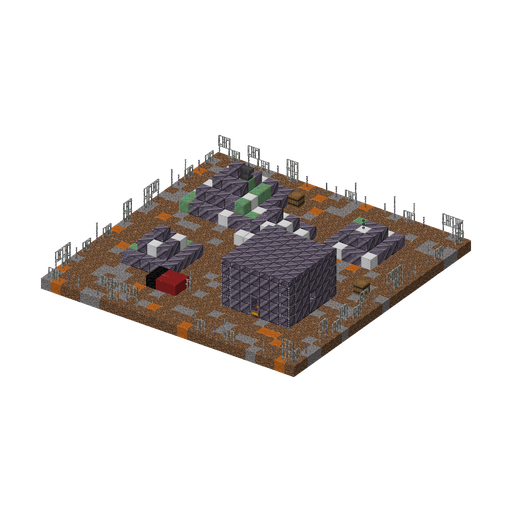
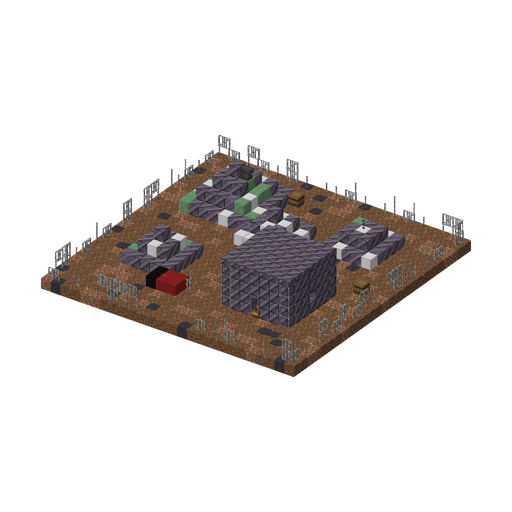
fix: Robo Junkyard second review follow-ups
The junkyard's floor is all #sproutsquad:plantable now (coarse dirt,
rooted dirt and patches of mud instead of gravel and red sand): plants
set up against the turrets used to dry out on a quarter of the yard.
Only the floor blocks of the template change; its picture is redrawn.

FEATURES lists the Engineer, Soldier and Robo-Zombie among the natural
spawns (at the Robo Junkyard, at night) instead of the raid-only ones.

structures_robo_junkyard checks the spawn rule both ways: no spawn on
the lit workshop floor, and a spawn in a dark stone cell walled in on
the yard, so a rule that never allows a spawn fails as well. It also
checks that the junkyard's turrets cannot call reinforcements. Both
structure tests place their templates turned like the test and read
positions through helper.absolutePos, so `/test run ... <rotation>`
works. The junkyard test relies on succeed() to clear its arena; the
gallery test takes the framework's test direction.

diff --git a/src/main/kotlin/dev/efureev/sproutsquad/structures/StructuresGameTests.kt b/src/main/kotlin/dev/efureev/sproutsquad/structures/StructuresGameTests.kt
@@ -14,6 +14,7 @@ import joshxviii.plantz.entity.blueprint_machines.ZombieTurret
 import joshxviii.plantz.entity.plant.Plant
 import joshxviii.plantz.entity.zombie.ZombieRobot
 import net.minecraft.core.BlockPos
+import net.minecraft.core.Direction
 import net.minecraft.core.registries.BuiltInRegistries
 import net.minecraft.core.registries.Registries
 import net.minecraft.gametest.framework.GameTestHelper
@@ -25,11 +26,11 @@ import net.minecraft.resources.Identifier
 import net.minecraft.resources.ResourceKey
 import net.minecraft.core.component.DataComponents
 import net.minecraft.tags.TagKey
-import net.minecraft.server.level.ServerLevel
 import net.minecraft.world.entity.Entity
 import net.minecraft.world.entity.EntitySpawnReason
 import net.minecraft.world.entity.EntityType
 import net.minecraft.world.entity.SpawnPlacementTypes
+import net.minecraft.world.entity.ai.attributes.Attributes
 import net.minecraft.world.entity.SpawnPlacements
 import net.minecraft.world.item.Items
 import net.minecraft.world.level.biome.Biome
@@ -40,6 +41,7 @@ import net.minecraft.world.level.block.Blocks
 import net.minecraft.world.level.block.entity.RandomizableContainerBlockEntity
 import net.minecraft.world.level.levelgen.structure.pools.StructurePoolElement
 import net.minecraft.world.level.levelgen.structure.templatesystem.StructurePlaceSettings
+import net.minecraft.world.level.levelgen.structure.templatesystem.StructureTemplate
 import net.minecraft.world.level.storage.loot.LootParams
 import net.minecraft.world.level.storage.loot.LootTable
 import net.minecraft.world.level.storage.loot.parameters.LootContextParamSets
@@ -130,18 +132,16 @@ object StructuresGameTests {
         val level = helper.level
         val problems = mutableListOf<String>()
         // the test's arena is the oak shack (SquadGameTests): its area is loaded; every variant is placed over it
-        val origin = helper.absolutePos(BlockPos.ZERO)
+        val box = helper.bounds
         for (wood in GARDEN_SHACK_VARIANTS) {
             val template = level.structureTemplateManager.get(id("garden_shack/$wood")).orElse(null)
             if (template == null) {
                 problems += "no template garden_shack/$wood"
                 continue
             }
-            val box = AABB(Vec3.atLowerCornerOf(origin), Vec3.atLowerCornerOf(origin.offset(template.size)))
             level.getEntitiesOfClass(Plant::class.java, box).forEach { it.discard() }
-            val settings = StructurePlaceSettings().setFinalizeEntities(true)
-            template.placeInWorld(level, origin, origin, settings, level.random, Block.UPDATE_CLIENTS)
-            problems += shackProblems(helper, wood, origin, box)
+            placeOverArena(helper, template)
+            problems += shackProblems(helper, wood, box)
         }
         problems += registrationProblems(helper, "garden_shack", Biomes.PLAINS, tradeLevel = 1)
         if (problems.isNotEmpty()) helper.fail(problems.joinToString("; "))
@@ -177,13 +177,26 @@ object StructuresGameTests {
     private val JUNKYARD_CHEST = BlockPos(20, 1, 15)
     private val JUNKYARD_BARRELS = listOf(BlockPos(20, 1, 17), BlockPos(10, 1, 3), BlockPos(23, 1, 12))
     private val JUNKYARD_ELECTRO_TURRET = BlockPos(17, 1, 22)
-    /** On the floor of the workshop, four blocks below the lantern. */
+    /** On the workshop floor, three blocks below the lantern (18, 4, 17) and one block west of it. */
     private val JUNKYARD_WORKSHOP_FLOOR = BlockPos(17, 1, 17)
+    /** Free yard floor, where the test walls in a dark cell. */
+    private val JUNKYARD_DARK_CELL = BlockPos(3, 1, 22)
     private const val LOOT_ROLLS = 50
 
-    /** The loot table path of the container at [pos] relative to [origin], or null. */
-    private fun lootTable(level: ServerLevel, origin: BlockPos, pos: BlockPos): String? =
-        (level.getBlockEntity(origin.offset(pos)) as? RandomizableContainerBlockEntity)?.lootTable?.identifier()?.path
+    /**
+     * Places [template] over the test's arena the way the world generation places it (its entities
+     * set up), turned like the arena (`/test run ... <rotation>`): positions relative to the template
+     * are then [GameTestHelper.absolutePos] of the same positions.
+     */
+    private fun placeOverArena(helper: GameTestHelper, template: StructureTemplate) {
+        val origin = helper.absolutePos(BlockPos.ZERO)
+        val settings = StructurePlaceSettings().setRotation(helper.testRotation).setFinalizeEntities(true)
+        template.placeInWorld(helper.level, origin, origin, settings, helper.level.random, Block.UPDATE_CLIENTS)
+    }
+
+    /** The loot table path of the container at [pos] relative to the test, or null. */
+    private fun lootTable(helper: GameTestHelper, pos: BlockPos): String? =
+        (helper.level.getBlockEntity(helper.absolutePos(pos)) as? RandomizableContainerBlockEntity)?.lootTable?.identifier()?.path
 
     /**
      * The Robo Junkyard: placed as the world generation places it, it has its loot tables and two
@@ -192,23 +205,22 @@ object StructuresGameTests {
      * are registered. Then a plant is put next to the electro turret by the door, and the turret
      * must take it as its target: the turrets of the template are awake. Last, the zombies it brings
      * at night have spawn rules on the ground, and those rules keep them out of the workshop, which
-     * its lantern lights.
+     * its lantern lights, but let them spawn in a dark cell walled in on the yard.
      */
     fun roboJunkyard(helper: GameTestHelper) {
         val level = helper.level
         val problems = mutableListOf<String>()
         // the test's arena is the junkyard itself (SquadGameTests): its area is loaded
-        val origin = helper.absolutePos(BlockPos.ZERO)
         val template = level.structureTemplateManager.get(id("robo_junkyard/yard")).orElse(null)
             ?: return helper.fail("no template robo_junkyard/yard")
-        val box = AABB(Vec3.atLowerCornerOf(origin), Vec3.atLowerCornerOf(origin.offset(template.size)))
+        val box = helper.bounds
         level.getEntitiesOfClass(ZombieRobot::class.java, box).forEach { it.discard() }
-        template.placeInWorld(level, origin, origin, StructurePlaceSettings().setFinalizeEntities(true), level.random, Block.UPDATE_CLIENTS)
+        placeOverArena(helper, template)
 
-        val chestLoot = lootTable(level, origin, JUNKYARD_CHEST)
+        val chestLoot = lootTable(helper, JUNKYARD_CHEST)
         if (chestLoot != "chests/robo_junkyard/workshop") problems += "the workshop chest has loot $chestLoot"
         for (pos in JUNKYARD_BARRELS) {
-            val barrelLoot = lootTable(level, origin, pos)
+            val barrelLoot = lootTable(helper, pos)
             if (barrelLoot != "chests/robo_junkyard/scrap") problems += "the barrel at ${pos.toShortString()} has loot $barrelLoot"
         }
 
@@ -218,35 +230,46 @@ object StructuresGameTests {
         val guards = turrets + electroTurrets
         if (guards.any { PlayerMachines.isPlayerMachine(it) }) problems += "a turret of the junkyard is a player's machine"
         if (guards.any { !it.isPersistenceRequired }) problems += "a turret of the junkyard may despawn"
+        if (guards.any { it.getAttributeValue(Attributes.SPAWN_REINFORCEMENTS_CHANCE) > 0.0 }) problems += "a turret of the junkyard may call reinforcements"
 
-        problems += junkyardLootProblems(helper, origin)
+        problems += junkyardLootProblems(helper, helper.absolutePos(BlockPos.ZERO))
         problems += registrationProblems(helper, "robo_junkyard", Biomes.BADLANDS, tradeLevel = 3)
         if (problems.isNotEmpty()) return helper.fail(problems.joinToString("; "))
 
         val electro = electroTurrets.single()
         val plant = helper.spawn(PazEntities.WALL_NUT, JUNKYARD_ELECTRO_TURRET.south(2))
-        val floor = origin.offset(JUNKYARD_WORKSHOP_FLOOR)
+        val floor = helper.absolutePos(JUNKYARD_WORKSHOP_FLOOR)
+        // a closed stone cell: neither sky nor block light reaches it
+        val cell = helper.absolutePos(JUNKYARD_DARK_CELL)
+        helper.setBlock(JUNKYARD_DARK_CELL.below(), Blocks.STONE)
+        helper.setBlock(JUNKYARD_DARK_CELL.above(2), Blocks.STONE)
+        for (y in 0..1) {
+            helper.setBlock(JUNKYARD_DARK_CELL.above(y), Blocks.AIR)
+            for (side in Direction.Plane.HORIZONTAL) helper.setBlock(JUNKYARD_DARK_CELL.above(y).relative(side), Blocks.STONE)
+        }
         helper.startSequence()
             .thenWaitUntil {
                 helper.assertTrue(level.isPositionEntityTicking(electro.blockPosition()), "the junkyard does not tick entities yet")
                 helper.assertTrue(electro.target == plant, "the electro turret targets ${electro.target?.type?.toShortString()} instead of the plant")
             }
-            // light is computed after the template is placed
-            .thenWaitUntil { helper.assertTrue(level.getBrightness(LightLayer.BLOCK, floor) > 0, "the workshop is not lit yet") }
+            // light is computed after the blocks are placed
+            .thenWaitUntil {
+                helper.assertTrue(level.getBrightness(LightLayer.BLOCK, floor) > 0, "the workshop is not lit yet")
+                helper.assertTrue(level.getBrightness(LightLayer.SKY, cell) == 0 && level.getBrightness(LightLayer.BLOCK, cell) == 0, "the cell is not dark yet")
+            }
             .thenExecute {
-                // the rule itself, not only its placement: a rule that let them spawn anywhere would pass the first check
+                // the rule itself, not only its placement: a rule that let them spawn anywhere, or nowhere, fails here
                 fun <T : Entity> rules(type: EntityType<T>): String? = when {
                     SpawnPlacements.getPlacementType(type) != SpawnPlacementTypes.ON_GROUND -> "${type.toShortString()} has no spawn rules on the ground"
                     SpawnPlacements.checkSpawnRules(type, level, EntitySpawnReason.NATURAL, floor, level.random) -> "${type.toShortString()} may spawn in the lit workshop"
+                    !SpawnPlacements.isSpawnPositionOk(type, level, cell) || !SpawnPlacements.checkSpawnRules(type, level, EntitySpawnReason.NATURAL, cell, level.random) ->
+                        "${type.toShortString()} may not spawn in the dark"
                     else -> null
                 }
                 val wrong = listOfNotNull(rules(PazEntities.ENGINEER_ZOMBIE), rules(PazEntities.SOLDIER_ZOMBIE), rules(PazEntities.ROBO_ZOMBIE))
                 helper.assertTrue(wrong.isEmpty(), wrong.joinToString("; "))
             }
-            .thenExecute {
-                plant.discard()
-                level.getEntitiesOfClass(ZombieRobot::class.java, box).forEach { it.discard() }
-            }
+            // succeed() clears the arena's entities: the turrets and the plant
             .thenSucceed()
     }
 
@@ -269,18 +292,18 @@ object StructuresGameTests {
         return problems
     }
 
-    private fun shackProblems(helper: GameTestHelper, wood: String, origin: BlockPos, box: AABB): List<String> {
+    private fun shackProblems(helper: GameTestHelper, wood: String, box: AABB): List<String> {
         val level = helper.level
         val problems = mutableListOf<String>()
-        val shedLoot = lootTable(level, origin, BlockPos(3, 1, 3))
+        val shedLoot = lootTable(helper, BlockPos(3, 1, 3))
         if (shedLoot != "chests/garden_shack/shed") problems += "$wood: the shed chest has loot $shedLoot"
         for (y in 1..2) {
-            val barrelLoot = lootTable(level, origin, BlockPos(7, y, 5))
+            val barrelLoot = lootTable(helper, BlockPos(7, y, 5))
             if (barrelLoot != "chests/garden_shack/barrel") problems += "$wood: barrel $y has loot $barrelLoot"
         }
-        if (!level.getBlockState(origin.offset(10, 0, 8)).`is`(Blocks.WATER)) problems += "$wood: no water between the beds"
+        if (!level.getBlockState(helper.absolutePos(BlockPos(10, 0, 8))).`is`(Blocks.WATER)) problems += "$wood: no water between the beds"
 
-        val mailboxPos = origin.offset(12, 1, 18)
+        val mailboxPos = helper.absolutePos(BlockPos(12, 1, 18))
         val mailbox = level.getBlockEntity(mailboxPos) as? MailboxBlockEntity
         val letter = mailbox?.let { box -> (0 until box.containerSize).map { box.getItem(it) }.firstOrNull { !it.isEmpty } }
         val name = (letter?.get(DataComponents.CUSTOM_NAME)?.contents as? TranslatableContents)?.key

diff --git a/src/main/kotlin/dev/efureev/sproutsquad/debug/GalleryGameTest.kt b/src/main/kotlin/dev/efureev/sproutsquad/debug/GalleryGameTest.kt
@@ -2,7 +2,6 @@ package dev.efureev.sproutsquad.debug
 
 import joshxviii.plantz.PazMain
 import net.minecraft.core.BlockPos
-import net.minecraft.core.Direction
 import net.minecraft.gametest.framework.GameTestHelper
 import net.minecraft.world.phys.Vec2
 import net.minecraft.world.phys.Vec3
@@ -33,7 +32,7 @@ object GalleryGameTest {
         val level = helper.level
         val pos = helper.absolutePos(COMMAND_POS)
         // "south in the template" turns with the test (`/test run ... <rotation>`), like the area
-        val facing = helper.testRotation.rotate(Direction.SOUTH)
+        val facing = helper.testDirection
         val source = level.server.createCommandSourceStack()
             .withLevel(level)
             .withPosition(Vec3.atBottomCenterOf(pos))

diff --git a/tools/docs/sketch_structures.py b/tools/docs/sketch_structures.py
@@ -425,9 +425,10 @@ def crypt():
 def junkyard():
     s = Scene(7)
     s.fill(0, -1, 0, 25, -1, 25, "dirt")
+    # the whole floor is #sproutsquad:plantable, so plants set against the turrets do not dry out
     s.fill(0, 0, 0, 25, 0, 25, "coarse_dirt")
-    s.fill(0, 0, 0, 25, 0, 25, "gravel", chance=0.2)
-    s.fill(0, 0, 0, 25, 0, 25, "red_sand", chance=0.06)
+    s.fill(0, 0, 0, 25, 0, 25, "rooted_dirt", chance=0.2)
+    s.fill(0, 0, 0, 25, 0, 25, "mud", chance=0.06)
     for i in range(0, 26):
         for x, z in ((i, 0), (i, 25), (0, i), (25, i)):
             if s.rng.random() < 0.85 and not (z == 25 and 10 <= x <= 14):

diff --git a/docs/ru/FEATURES.md b/docs/ru/FEATURES.md
@@ -199,15 +199,15 @@ Sprout Squad — мод для Minecraft 26.3 на NeoForge, который пр
 | <img src="../images/characters/zombie_yeti.png" alt="" width="112"> | [Зомби-Йети](characters/zombie_yeti.md) | Снежные и холодные биомы, ледяные вершины | Кидается рыхлым снегом («Прохлада») |
 | <img src="../images/characters/zombat.png" alt="" width="112"> | [Зомбимышь](characters/zombat.md) | Кладбище, даже днём | Летает, лечится, когда ранит моба |
 | <img src="../images/characters/zombie_goat.png" alt="" width="112"> | [Зомби-Козёл](characters/zombie_goat.md) | Заснеженные склоны, вершины, рощи, ветреные холмы — ночью | В 40 % случаев на нём едет Чертёнок (Sprout Squad) |
+| <img src="../images/characters/engineer_zombie.png" alt="" width="112"> | [Зомби-Инженер](characters/engineer_zombie.md) | [Свалка роботов](STRUCTURES.md#свалка-роботов) — ночью (Sprout Squad) | Избегает игроков и растений и строит враждебные машины |
+| <img src="../images/characters/soldier_zombie.png" alt="" width="112"> | [Зомби-Солдат](characters/soldier_zombie.md) | [Свалка роботов](STRUCTURES.md#свалка-роботов) — ночью (Sprout Squad) | Стреляет из Пейнтбольного маркера |
+| <img src="../images/characters/robo_zombie.png" alt="" width="112"> | [Робо-Зомби](characters/robo_zombie.md) | [Свалка роботов](STRUCTURES.md#свалка-роботов) — ночью (Sprout Squad) | Трансформируется, стреляет ракетами |
 
 Только в рейдах (или из яиц призыва):
 
 | | Зомби | Особенности |
 |---|---|---|
 | <img src="../images/characters/backup_dancer.png" alt="" width="112"> | [Подтанцовщик](characters/backup_dancer.md) | Его призывает Зомби-Танцор |
-| <img src="../images/characters/engineer_zombie.png" alt="" width="112"> | [Зомби-Инженер](characters/engineer_zombie.md) | Избегает игроков и растений и строит враждебные машины |
-| <img src="../images/characters/soldier_zombie.png" alt="" width="112"> | [Зомби-Солдат](characters/soldier_zombie.md) | Стреляет из Пейнтбольного маркера |
-| <img src="../images/characters/robo_zombie.png" alt="" width="112"> | [Робо-Зомби](characters/robo_zombie.md) | Трансформируется, стреляет ракетами |
 | <img src="../images/characters/pirate_captain.png" alt="" width="112"> | [Капитан Пиратов](characters/pirate_captain.md) | Стреляет фейерверками; после смерти возвращается [Призраком Капитана Пиратов](characters/pirate_captain_ghost.md) |
 | <img src="../images/characters/super_brainz.png" alt="" width="112"> | [Супермозг](characters/super_brainz.md) | Энергетические лучи и удары кулаками |
 | <img src="../images/characters/gargantuar.png" alt="" width="112"> | [Гаргантюа](characters/gargantuar.md) | Огромный, крушит и метает Чертят |

diff --git a/docs/en/FEATURES.md b/docs/en/FEATURES.md
@@ -199,15 +199,15 @@ Zombies spawn in the dark like vanilla monsters, never on Peaceful. In the Grave
 | <img src="../images/characters/zombie_yeti.png" alt="" width="112"> | [Zombie Yeti](characters/zombie_yeti.md) | Snowy and cold biomes, icy peaks | Throws powder snow (Chilled) |
 | <img src="../images/characters/zombat.png" alt="" width="112"> | [Zombat](characters/zombat.md) | Graveyard, even by day | Flies, heals itself when it hurts a mob |
 | <img src="../images/characters/zombie_goat.png" alt="" width="112"> | [Zombie Goat](characters/zombie_goat.md) | Snowy slopes, peaks, groves, windswept hills, at night | 40% of them carry an Imp rider (Sprout Squad) |
+| <img src="../images/characters/engineer_zombie.png" alt="" width="112"> | [Engineer Zombie](characters/engineer_zombie.md) | [Robo Junkyard](STRUCTURES.md#robo-junkyard), at night (Sprout Squad) | Avoids players and plants and builds hostile machines |
+| <img src="../images/characters/soldier_zombie.png" alt="" width="112"> | [Soldier Zombie](characters/soldier_zombie.md) | [Robo Junkyard](STRUCTURES.md#robo-junkyard), at night (Sprout Squad) | Fires a Dye Blaster |
+| <img src="../images/characters/robo_zombie.png" alt="" width="112"> | [Robo-Zombie](characters/robo_zombie.md) | [Robo Junkyard](STRUCTURES.md#robo-junkyard), at night (Sprout Squad) | Transforms, fires missiles |
 
 Only in raids (or from spawn eggs):
 
 | | Zombie | Notes |
 |---|---|---|
 | <img src="../images/characters/backup_dancer.png" alt="" width="112"> | [Backup Dancer](characters/backup_dancer.md) | Summoned by the Disco Zombie |
-| <img src="../images/characters/engineer_zombie.png" alt="" width="112"> | [Engineer Zombie](characters/engineer_zombie.md) | Avoids players and plants and builds hostile machines |
-| <img src="../images/characters/soldier_zombie.png" alt="" width="112"> | [Soldier Zombie](characters/soldier_zombie.md) | Fires a Dye Blaster |
-| <img src="../images/characters/robo_zombie.png" alt="" width="112"> | [Robo-Zombie](characters/robo_zombie.md) | Transforms, fires missiles |
 | <img src="../images/characters/pirate_captain.png" alt="" width="112"> | [Pirate Captain](characters/pirate_captain.md) | Fires fireworks; comes back as a [Pirate Captain Ghost](characters/pirate_captain_ghost.md) |
 | <img src="../images/characters/super_brainz.png" alt="" width="112"> | [Super Brainz](characters/super_brainz.md) | Energy beams and punches |
 | <img src="../images/characters/gargantuar.png" alt="" width="112"> | [Gargantuar](characters/gargantuar.md) | Huge, smashes and throws Imps |
